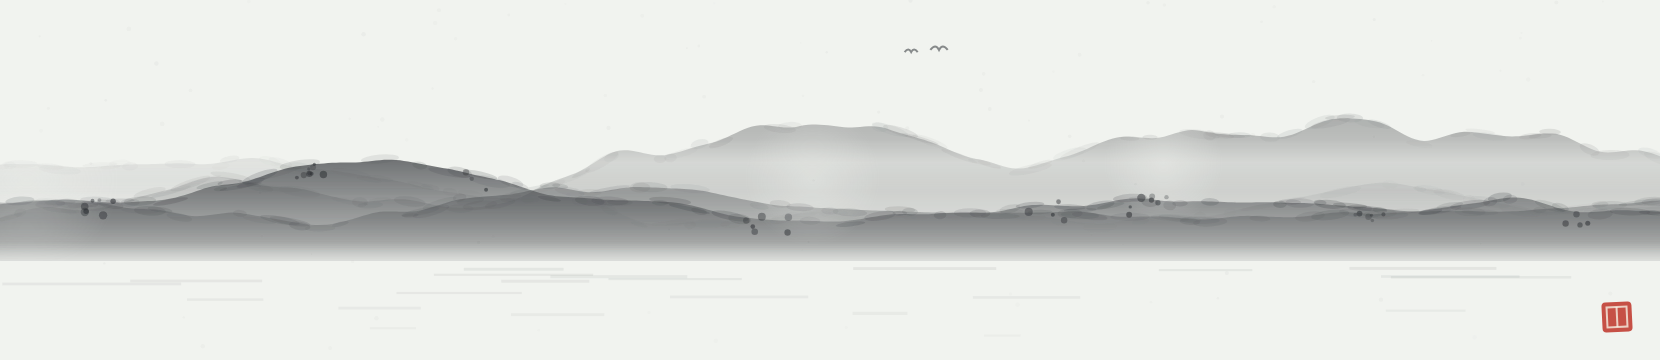
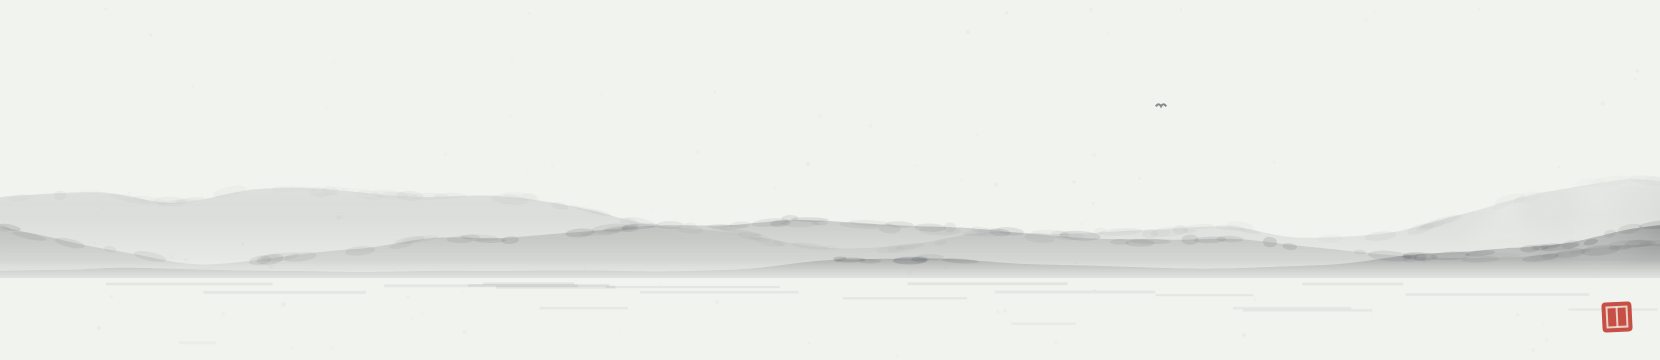
chore: refresh 2026-09-09

Changed region(s): [[0.0, 0.3056, 1.0, 0.7944]]

diff --git a/README.md b/README.md
@@ -5,7 +5,7 @@
     <img src="assets/ink-today.png" width="100%" alt="今日山色 — today's ink landscape">
   </picture>
 </p>
-<p align="center"><sub><!-- CAPTION:START -->今日山色 · 2026-09-08 · a new ink landscape every morning, seeded by the date &nbsp;·&nbsp; 「败垣芳草，空廊落叶，深砌苍苔。」 徐再思<!-- CAPTION:END --></sub></p>
+<p align="center"><sub><!-- CAPTION:START -->今日山色 · 2026-09-09 · a new ink landscape every morning, seeded by the date &nbsp;·&nbsp; 「广陵城里昔繁华，炀帝行宫接紫霞。」 曾棨<!-- CAPTION:END --></sub></p>
 
 ### Hi, I'm jk.
 
